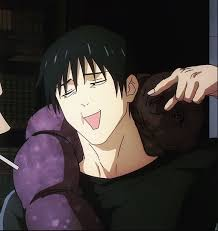
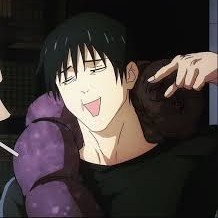
image update

diff --git a/pages/TojiInteractive.html b/pages/TojiInteractive.html
@@ -35,7 +35,7 @@
 				<section id="answers">
 					<p id="q1">Option 1</p>
 					<p id="q2">Option 2</p>
-					<img id="image" src="../assets/tojiThinking.webp">
+					<img id="image" src="../assets/tojiThinking.jpg">
 					<p id="q3">Option 3</p>
 					<p id="q4">Option 4</p>
 				</section>
